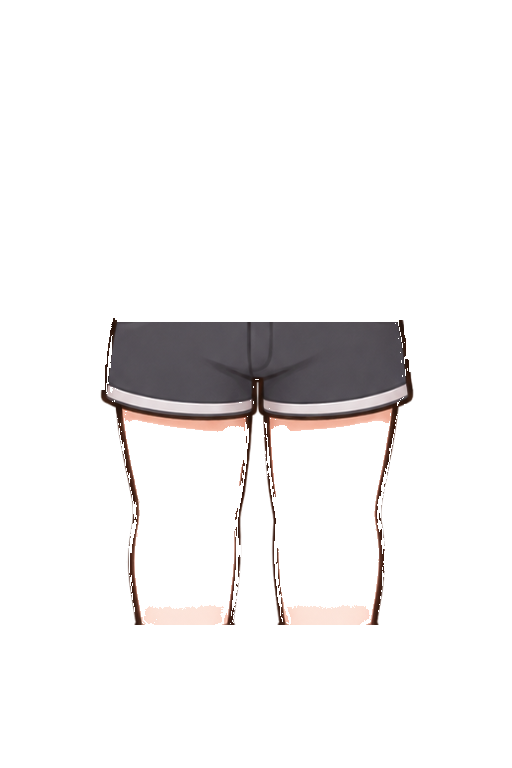
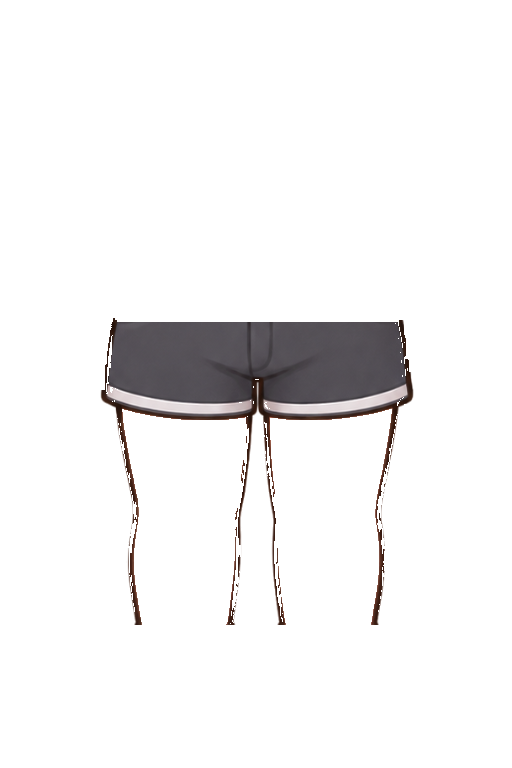
fix: 기본 의상 셋이 승인 기본 텍스처를 그대로 다시 그리게 빈 곳을 채운다 [S15P31A207-300]
- 기본 의상 서기의 옷 레이어 빈 곳(흰 반팔티 소매 안 분홍 그늘 등)을 승인 픽셀로 채운다. 하의 칸의 승인 피부는 넣지 않는다(DV-성-11)
- 검수 렌더(review.py)는 달리기 측면 머리에 톤을 주지 않는다(얼굴·헤어가 합쳐진 한 장이라 얼굴만 고를 수 없다. 앱은 얼굴 레이어에만 준다)

diff --git a/android/core/avatar/tools/outfit-pipeline/production/produce.py b/android/core/avatar/tools/outfit-pipeline/production/produce.py
@@ -172,6 +172,11 @@ def fill_base_gaps(work: Path) -> None:
         covered |= array[..., 3] > 0
     differs = np.abs(body_stand[..., :3].astype(int) - ref[..., :3].astype(int)).sum(axis=2) > 12
     gap = (ref[..., 3] > 0) & ~covered & (differs | (body_stand[..., 3] == 0))
+    # 하의 칸의 승인 피부(허벅지)는 옷 레이어에 넣지 않는다(넣으면 러닝량 톤을 받지 않는 밝은 띠가 된다, DV-성-11).
+    # 상의 칸의 피부색 픽셀은 흰 반팔티 소매 안 분홍 그늘이라 옷이다.
+    from outfit_pipeline.build import _skin_like
+
+    gap &= ~(_skin_like(ref[..., :3]) & (np.array(zones["TOP"]) == 0))
     yy, xx = np.mgrid[0 : ref.shape[0], 0 : ref.shape[1]]
     gap &= ~(
         (yy >= 185) & ((xx < 112) | (xx >= 404))
@@ -196,6 +201,9 @@ def fill_run_gaps(work: Path) -> None:
         array = np.array(Image.open(path).convert("RGBA"))
         differs = np.abs(body_slot[..., :3].astype(int) - ref[..., :3].astype(int)).sum(axis=2) > 12
         gap = (ref[..., 3] > 0) & (array[..., 3] == 0) & (differs | (body_slot[..., 3] == 0))
+        from outfit_pipeline.build import _skin_like
+
+        gap &= ~_skin_like(ref[..., :3])
         part = spec.RUN_SLOT_PART[slot]
         allowed = np.array(load_mask(MASKS, f"female_{slot}", part)) > 0
         take = drop_specks(gap & allowed, 6)

diff --git a/android/core/avatar/tools/outfit-pipeline/production/review.py b/android/core/avatar/tools/outfit-pipeline/production/review.py
@@ -104,8 +104,7 @@ def render(
     if amount:
         if scene.endswith("stand"):
             tone(Image.open(work / "faceImage.png"), amount).save(work / "faceImage.png")
-        else:
-            tone(Image.open(work / "side_head.png"), amount, only_skin=True).save(work / "side_head.png")
+        # 달리기 측면 머리는 Rive 원본에 얼굴·헤어가 합쳐진 한 장이라 얼굴만 골라 톤을 줄 수 없어 원본 그대로 둔다(앱은 얼굴 레이어에만 준다)
     text = (work / "scene.rml").read_text(encoding="utf-8")
 
     def number(name: str, value: int) -> None:
@@ -165,7 +164,8 @@ def main() -> None:
         tile = Image.new("RGB", (1000, 410), (255, 255, 255))
         for i, path in enumerate(shots):
             tile.paste(Image.open(path).convert("RGB").crop((150, 120, 650, 900)).resize((250, 390)), (i * 250, 0))
-        ImageDraw.Draw(tile).text((4, 394), f"{key}  amount={args.amount} shape={args.shape}", fill=(0, 0, 0))
+        label = f"{key}  amount={args.amount} shape={args.shape}" + ("  (run head not toned)" if args.amount else "")
+        ImageDraw.Draw(tile).text((4, 394), label, fill=(0, 0, 0))
         tiles.append(tile)
     sheet = Image.new("RGB", (1000, 410 * len(tiles)), (255, 255, 255))
     for i, tile in enumerate(tiles):

diff --git a/android/core/avatar/tools/outfit-pipeline/outfit_pipeline/spec.py b/android/core/avatar/tools/outfit-pipeline/outfit_pipeline/spec.py
@@ -105,12 +105,8 @@ RUN_SLOT_PART = {"run_body": "TOP", "run_arm": "TOP", "run_leg": "BOTTOM", "run_
 BODY_SLOTS = ("stand", "run_body", "run_arm", "run_leg")
 CUT_SLOTS = ("stand", "run_body", "run_arm")  # 상의 자르기 칸이 있는 슬롯([임시:D-성-156])
 NECK_CHEST = (196, 0, 317, 110)  # 서기 아틀라스에서 자르지 않는 목·가슴 위(x0, y0, x1, y1)
-NECK_TOP = (
-    176,
-    0,
-    337,
-    14,
-)  # 맨 위 줄 목 둘레(머리 아래라 보이지 않고, 깃 옆 조각을 자르면 머리와 몸 사이가 비어 보인다)
+# 맨 위 줄 목 둘레(머리 아래라 보이지 않고, 깃 옆 조각을 자르면 머리와 몸 사이가 비어 보인다)
+NECK_TOP = (176, 0, 337, 14)
 RUN_NECK = (100, 0, 200, 40)  # 달리기 몸통의 목 조각
 # 자르기 칸의 팔 띠(알파 값). 상의가 그 팔 띠 맨몸을 60% 넘게 덮을 때(긴소매)만 띠 안을 자른다. 나머지 칸(몸통·어깨)은 255.
 CUT_TORSO, CUT_LEFT_ARM, CUT_RIGHT_ARM = 255, 200, 160
